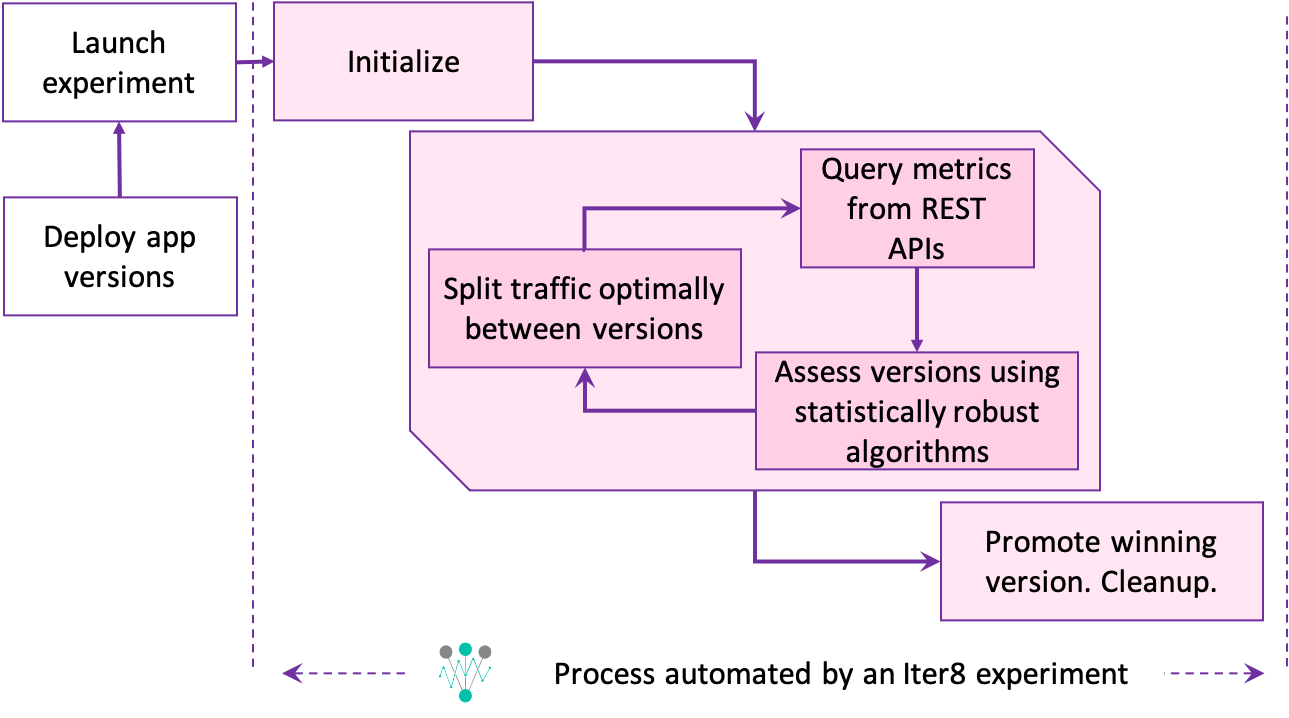
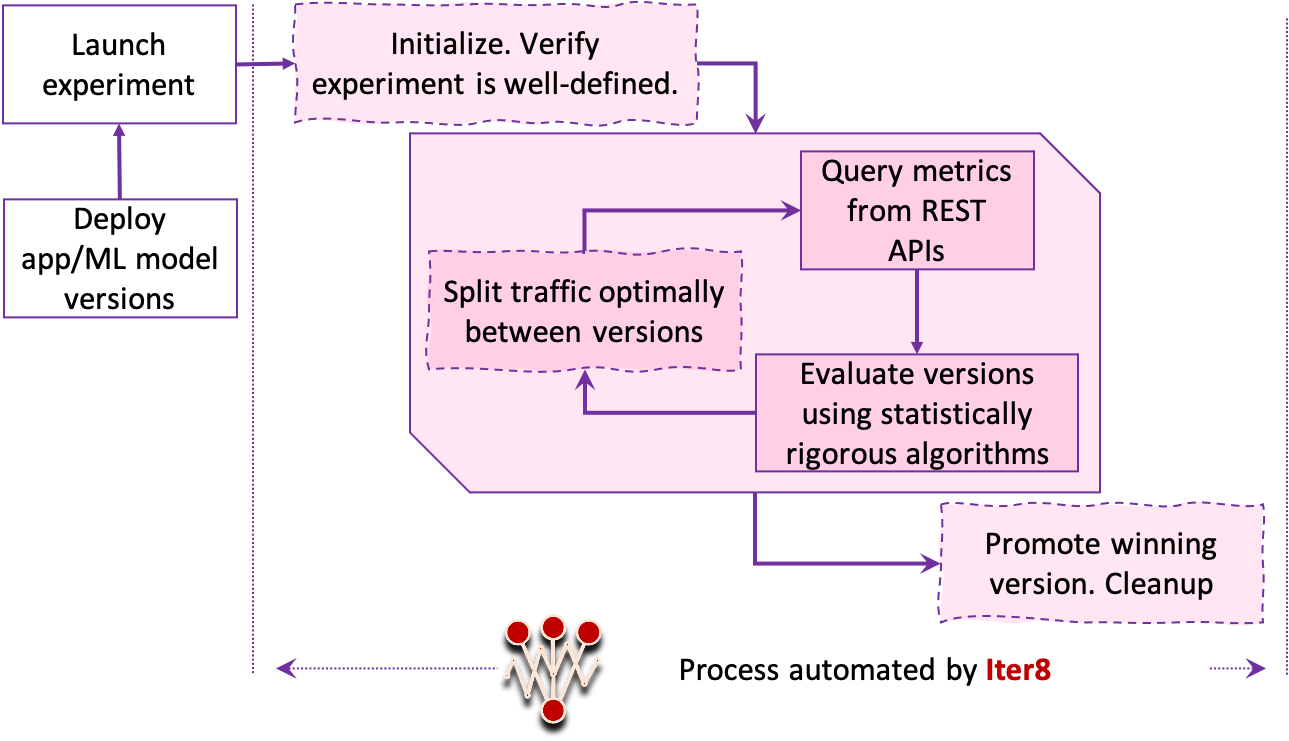
concepts

diff --git a/mkdocs/src/overrides/main.html b/mkdocs/src/overrides/main.html
@@ -58,8 +58,6 @@
 
 <!-- Announcement bar -->
 {% block announce %}
-<strong>Iter8</strong> at <a href="https://calendar.google.com/calendar/event?eid=NWZpdWVzcTVkcjRwazRxNnRtcmF1dDV0YW9fMjAyMTAzMjRUMTYzMDAwWiBrbmF0aXZlLnRlYW1fOXE4M2JnMDdxczViOXJyc2xwNWpvcjRsNnNAZw&ctz=GMT-04:00">Knative Community Meetup</a>.
-
 <strong>Iter8</strong> at <a href="https://sched.co/iE2l">KubeCon + CloudNativeCon Europe 2021</a>. For more updates and support, 
     <a href="https://iter8-tools.slack.com">
       join <strong>Iter8</strong> workspace on <span class="twemoji">

diff --git a/mkdocs/docs/concepts/whatisiter8.md b/mkdocs/docs/concepts/whatisiter8.md
@@ -4,35 +4,17 @@ template: overrides/main.html
 
 # What is Iter8?
 
-**Iter8** is an AI-powered platform for cloud native release automation and experimentation. Iter8 makes it easy to unlock business value and guarantee SLOs by identifying the best performing app/ML model version (`winner`) and rolling it out safely.
+**Iter8** is an AI-powered platform for cloud native release automation and experimentation. Iter8 makes it easy to unlock business value and guarantee SLOs by identifying the best performing app/ML model version and rolling it out safely.
 
-Use Iter8 to automate progressive delivery, validation, and promotion/rollback of new versions, and maximize release velocity with confidence while protecting end-user experience.
+Iter8 is designed for **developers, SREs, service operators, data scientists, and ML engineers** who wish to maximize release velocity and/or business value with their apps/ML models while protecting end-user experience.
 
 ## What is an Iter8 experiment?
-Iter8 defines a Kubernetes resource called **Experiment** that automates validation and release of new versions as depicted in the picture below.
+Iter8 defines a Kubernetes resource called **Experiment** that automates progressive delivery, validation, and promotion/rollback of app/ML model versions as depicted below.[^1] 
 
 ![Process automated by an Iter8 experiment](/assets/images/whatisiter8.png)
 
 ## How does Iter8 work?
 
-Iter8 consists of a [Kubernetes controller](https://github.com/iter8-tools/etc3) that orchestrates (reconciles) experiments in conjunction with the [Iter8 analytics service](https://github.com/iter8-tools/iter8-analytics), and the [Iter8 task handler](https://github.com/iter8-tools/handler).
+Iter8 consists of a [Go-based Kubernetes controller](https://github.com/iter8-tools/etc3) that orchestrates (reconciles) experiments in conjunction with a [Python-based analytics service](https://github.com/iter8-tools/iter8-analytics), and a [Go-based task runner](https://github.com/iter8-tools/handler).
 
-## Features at a glance
-
-- Iter8 is designed to support release automation and experimentation over **any** cloud stack; documented code-samples are currently available for **Knative**, **KFServing**[^1] and **Istio**[^2].
-- **Conformance** and **Canary** testing.
-- **Progressive**, **FixedSplit**, and **DarkLaunch** deployments.
-- Traffic shaping methods such as **mirroring** and **traffic segmentation**.
-- Integration with app config tools such as **Helm**, **Kustomize**, and `kubectl`.
-- Out-of-the-box metrics shipped with Iter8 and custom metrics that can be defined using metrics in **Prometheus**.
-- Statistically robust version assessments and decision making during experiments using **Bayesian learning** and **multi-armed bandit** algorithms.
-- The `iter8ctl` CLI for observing experiments in realtime.
-
-
-<!-- orchestrate experiments. These components automate several functions including executing start up tasks that initialize a partially specified experiment, verifying that conditions needed for the experiment are satisfied, iteratively deciding how to split traffic between app versions, identifying a `winner`, error handling, deciding when to terminate the experiment, promoting the `winner`, and executing clean up tasks. -->
-
-<!-- ??? info "Deeper look into Iter8's component interactions"
-    ![Under the hood](/assets/images/under-the-hood.png) -->
-
-[^1]: An initial version of Iter8 for KFServing is available [here](https://github.com/iter8-tools/iter8-kfserving). An updated version is coming soon.
-[^2]: An earlier version of Iter8 for Istio is available [here](https://github.com/iter8-tools/iter8). An updated version is coming soon.
+[^1]: Boxes with dashed boundaries in the picture are optional in an experiment.

diff --git a/mkdocs/docs/concepts/features.md b/mkdocs/docs/concepts/features.md
@@ -1,0 +1,24 @@
+---
+template: overrides/main.html
+hide:
+- toc
+---
+
+# Iter8 Features at a Glance
+
+Iter8 enables app/ML model developers, service operators, SREs, ML engineers, and data scientists to achieve the following goals.
+
+- Automate validation/releases over **any** cloud stack; tutorials are documented for **Knative**, **KFServing**[^1] and **Istio**[^2].
+- Declaratively specify validation/release goals using an **experiment** - Kubernetes custom resource defined by Iter8.
+- **Conformance** and **Canary** testing.
+- **Progressive**, **fixed-split**, and **dark-launched** deployments.
+- Specify SLOs and SLIs.
+- **Traffic mirroring** and **traffic segmentation**.
+- Use Helm, Kustomize, and plain YAML/JSON manifests.
+- Use Out-of-the-box metrics custom metrics that can be defined using metrics in **Prometheus**.
+- Statistically rigorous evaluation of versions, traffic splitting, and promotion/rollback decisions using **Bayesian learning** and **multi-armed bandit** algorithms.
+- Observe experiments in realtime.
+
+
+[^1]: An initial version of Iter8 for KFServing is available [here](https://github.com/iter8-tools/iter8-kfserving). An updated version is coming soon.
+[^2]: An earlier version of Iter8 for Istio is available [here](https://github.com/iter8-tools/iter8). An updated version is coming soon.

diff --git a/mkdocs/docs/concepts/experimentationstrategies.md b/mkdocs/docs/concepts/experimentationstrategies.md
@@ -102,7 +102,7 @@ Iter8 enables you to take total advantage of all the traffic shaping features av
     ![Canary](/assets/images/request-routing.png)
 
     !!! tip ""
-        Try an experiment with [traffic segmentation](/code-samples/knative/request-routing/).
+        Try an experiment with [traffic segmentation](/code-samples/knative/traffic-segmentation/).
 
 
 ### Version promotion
